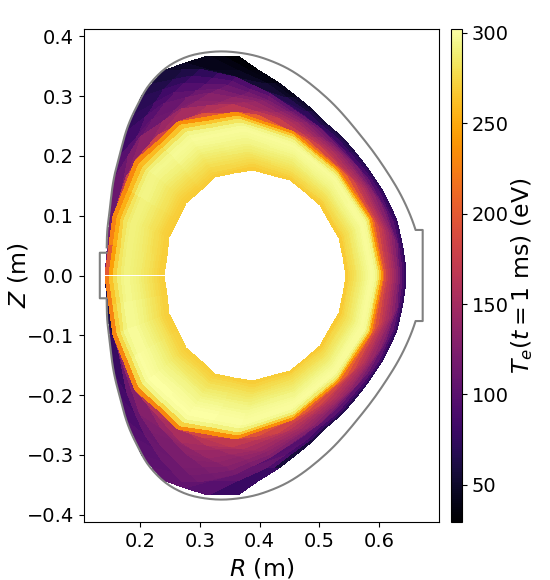
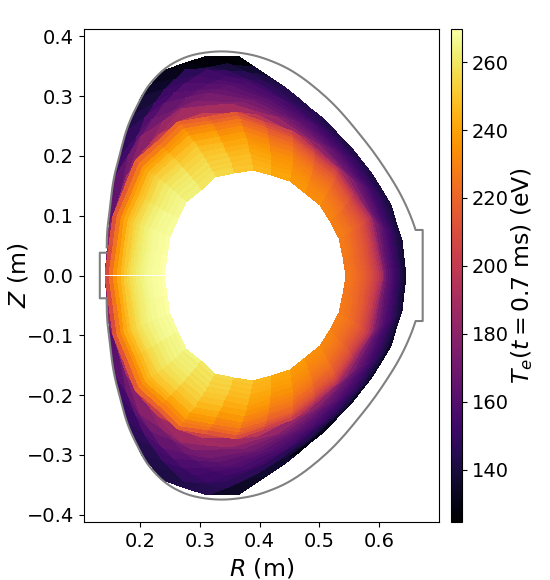
Correct electron tperp tpar plots, add temp plots.

diff --git a/gkeyll/postprocess_gkeyll_ltx_2x.py b/gkeyll/postprocess_gkeyll_ltx_2x.py
@@ -705,17 +705,18 @@ if plot_vs_RZ:
 
   data_dir = '/pscratch/sd/m/mana/gkeyll/ltx/2d/li863mg_103955_04-base/'
 
-  quant      = 'elc_BiMaxwellianMoments' #[ Quantity to plot.
-  quant_comp = 'den'                    #[ Component in file (den, upar, tpar, tperp, temp, or an int).
-  scale_fac  = 1.0               #[ Factor to multiply data by.
-#  scale_fac  = lcu.mass_ion/lcu.eV               #[ Factor to multiply data by.
-  zlabel     = r'$n_e(t=0.7~\mathrm{ms})$ (m$^{-3}$)'       #[ Label for y axis.
+  quant      = 'ion_BiMaxwellianMoments' #[ Quantity to plot.
+  quant_comp = 'temp'                    #[ Component in file (den, upar, tpar, tperp, temp, or an int).
+#  scale_fac  = 1.0               #[ Factor to multiply data by.
+  scale_fac  = lcu.mass_ion/lcu.eV               #[ Factor to multiply data by.
+#  zlabel     = r'$n_e(t=0.7~\mathrm{ms})$ (m$^{-3}$)'       #[ Label for y axis.
 #  zlabel     = r'$u_{\parallel i}(t=0.7~\mathrm{ms})$ (km/s)'       #[ Label for y axis.
 #  zlabel     = r'$T_{\parallel e}(t=0.7~\mathrm{ms})$ (eV)'       #[ Label for y axis.
 #  zlabel     = r'$T_{\perp e}(t=0.7~\mathrm{ms})$ (eV)'       #[ Label for y axis.
+  zlabel     = r'$T_{i}(t=0.7~\mathrm{ms})$ (eV)'       #[ Label for y axis.
   frame      = 14                         #[ Frame number.
 
-  fig_file_name_root = lcu.li863_prefix+'final_elc_den_RZ'
+  fig_file_name_root = lcu.li863_prefix+'final_ion_temp_RZ'
 
   wall_file = '/global/homes/m/mana/perlmutter/gkeyll/code/gkyl-sims/ltx_gkeyll_xgc/experiment/LTXvessel.csv'
 
